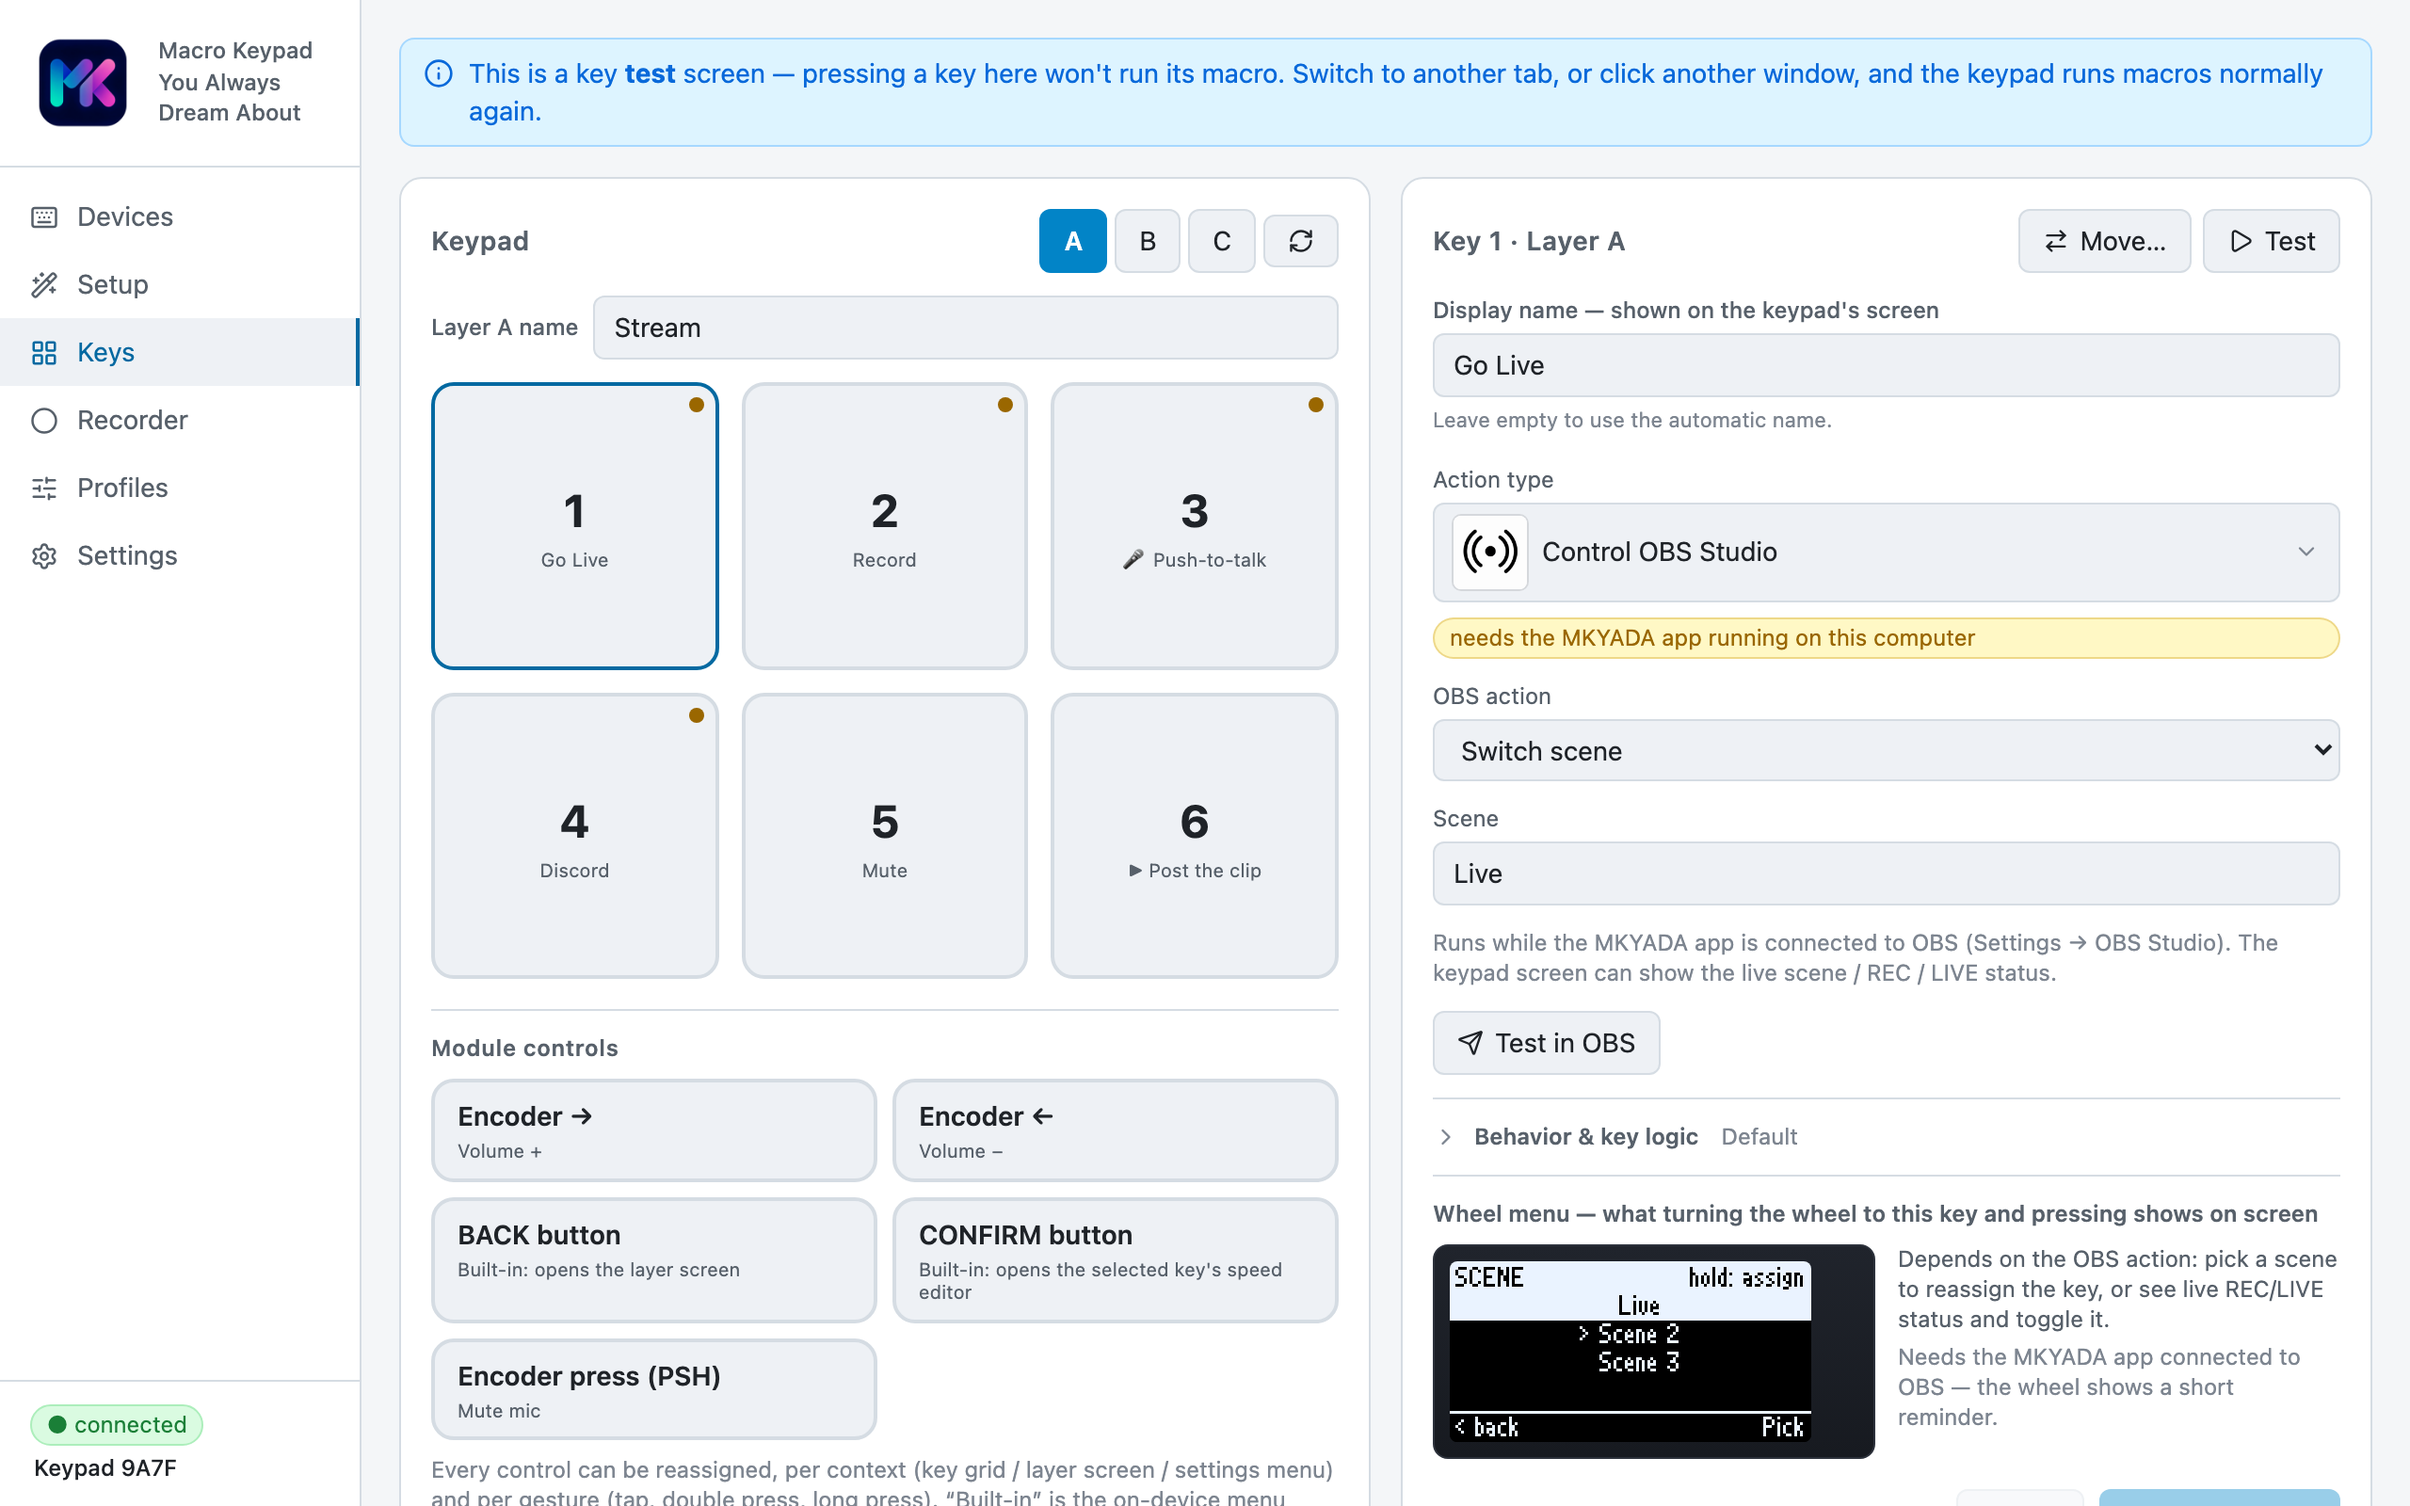
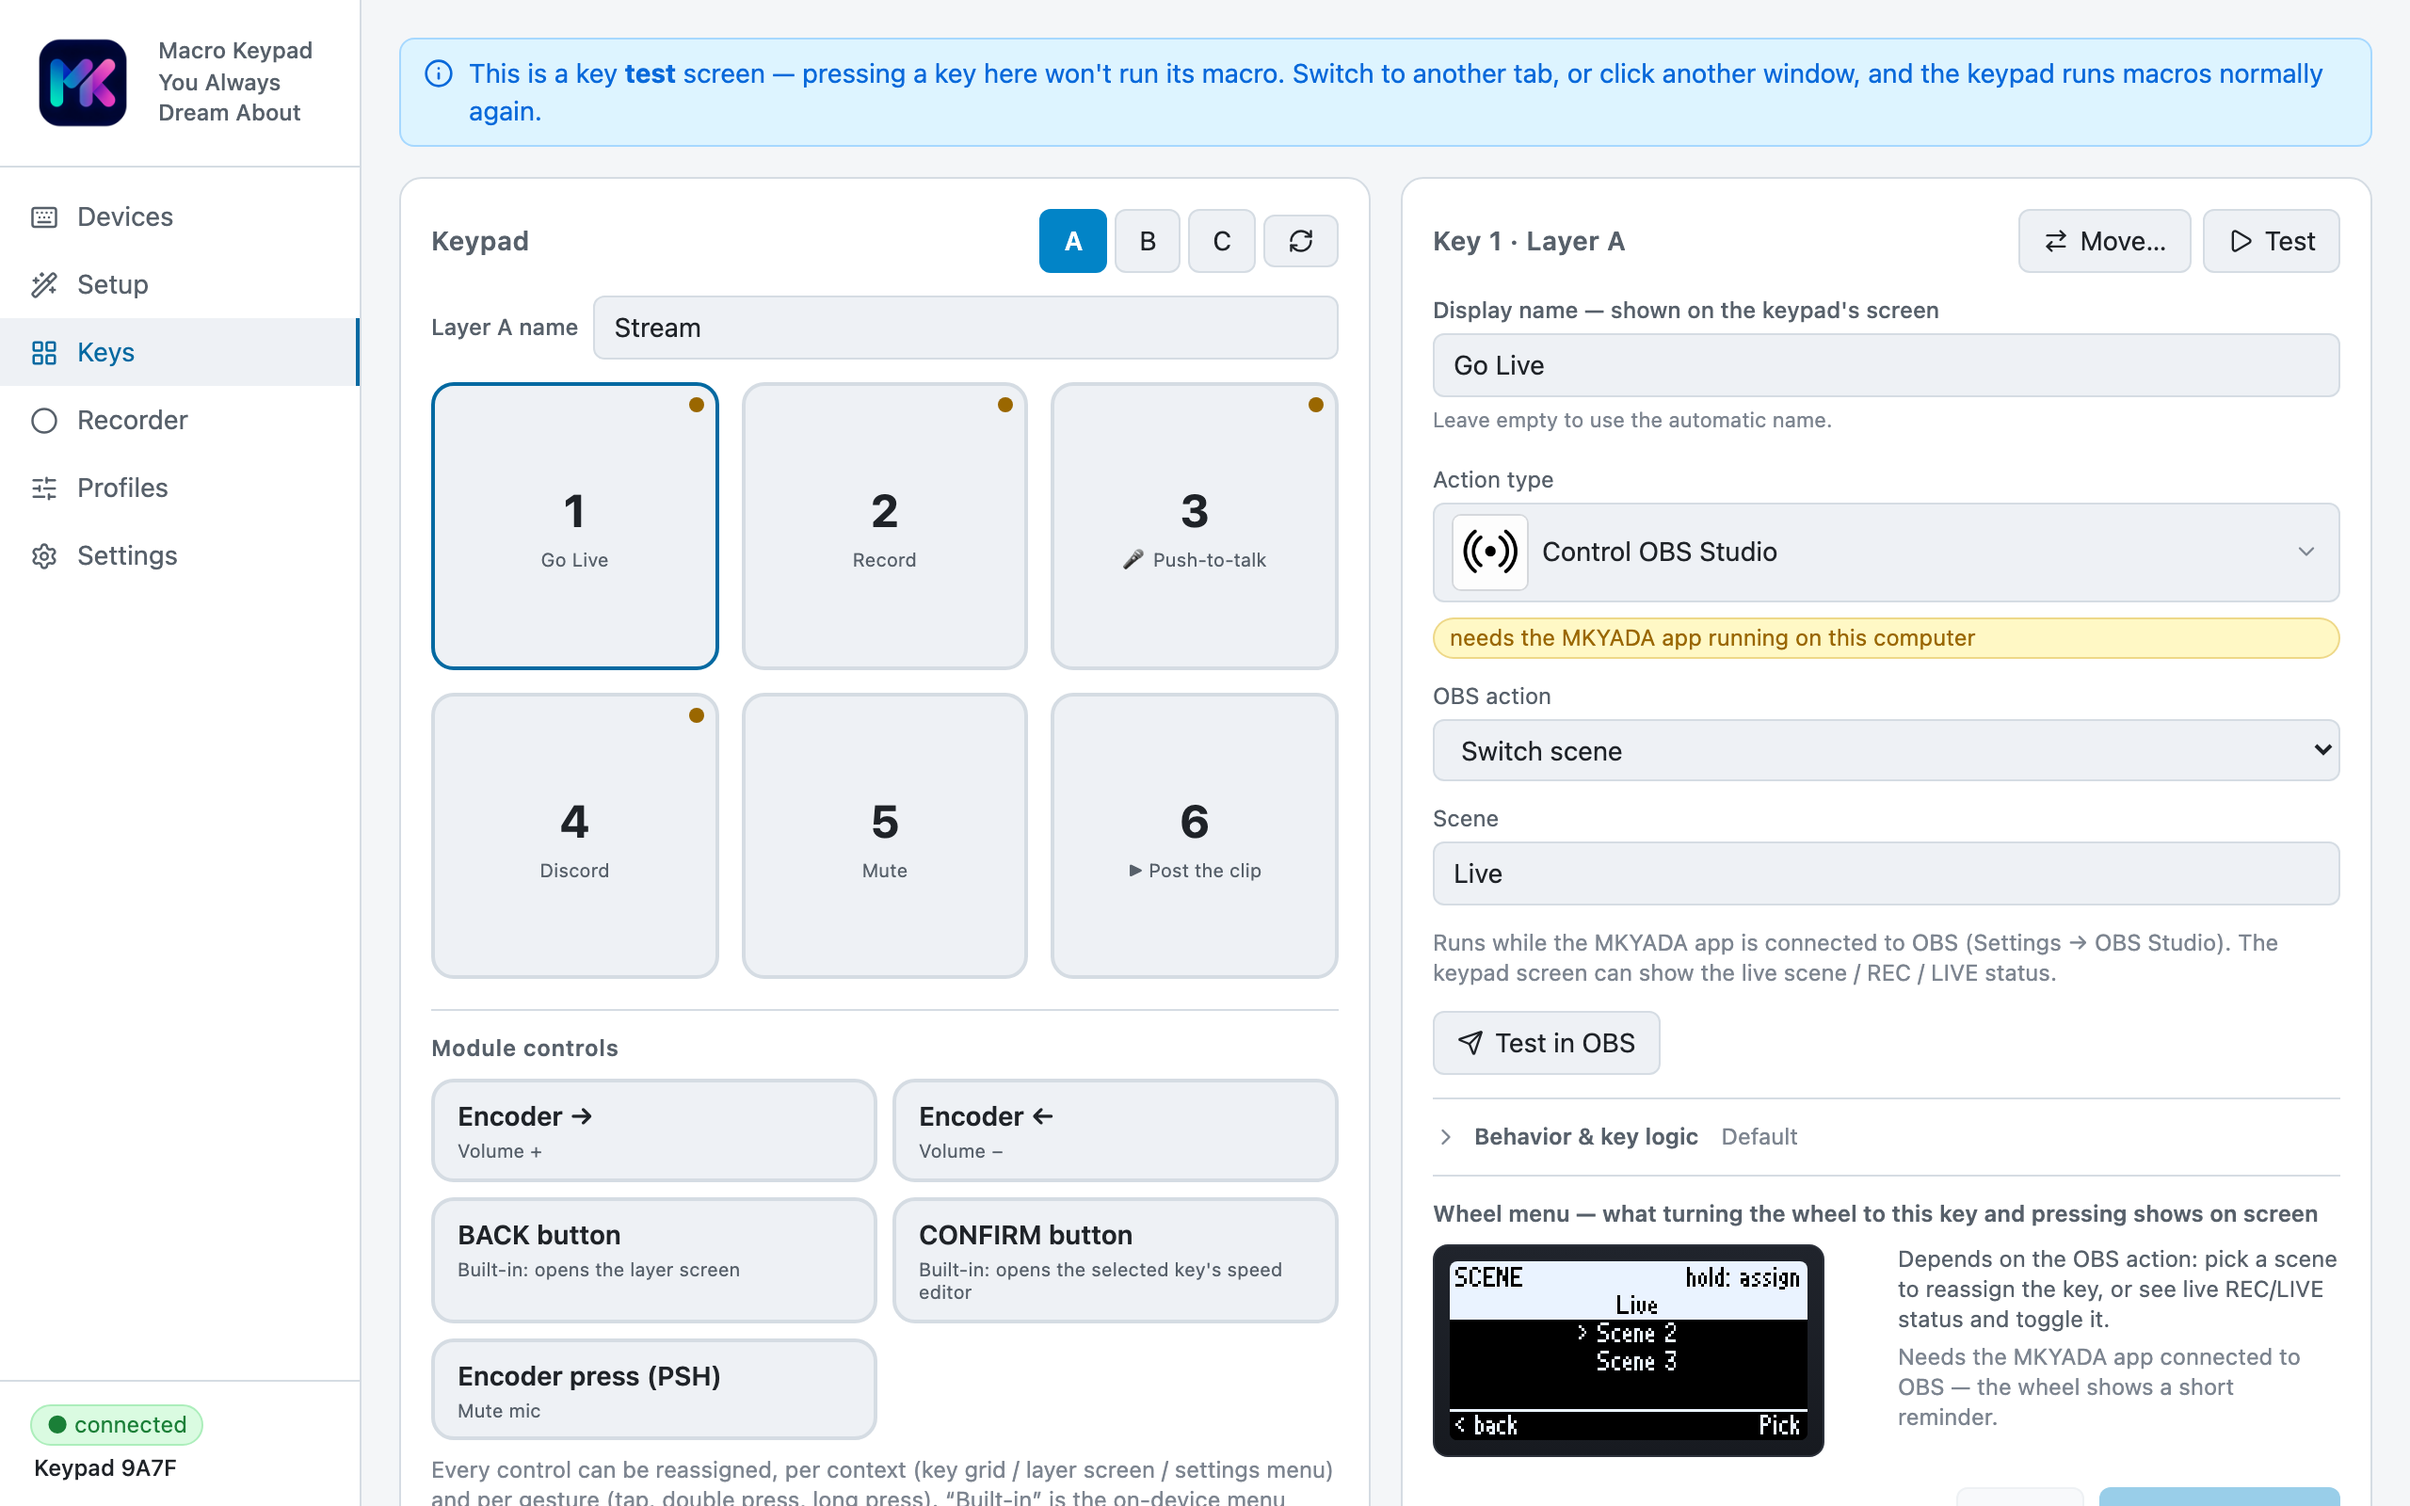
Responsive OLED preview, and a brand-new keypad that knows key 1's name (v0.31.0)
Two bugs from the wheel-menu explainer's fixed-size preview: in a narrow
window it overflowed its column onto the text, and in a wide one the bezel
stretched to the column while the picture inside stayed put. The preview now
takes the width it is given and treats `scale` as a ceiling.

And a first-run one worth its own test: the setup wizard wrote key 1's starter
macro pretty-printed — 10 KB with `{` alone on line 1. The firmware reads a
macro's name from line 1 and only parses a whole file under 4 KB, so a
brand-new keypad showed "K1" on its screen instead of the macro's name. It is
written in the stream format now, like every other save.

Changed region(s): [[0.5938, 0.8125, 0.7812, 0.9688], [0.6562, 0.875, 0.6875, 0.9062]]

diff --git a/app/src/lib/macro-model.test.ts b/app/src/lib/macro-model.test.ts
@@ -2,6 +2,7 @@
 // parseAssignment(compileAssignment(a)) with its meaning intact — that pair
 // is what moves assignments between the UI and the device drive.
 import { describe, expect, it } from "vitest";
+import { serializeForDevice } from "./recorder-model";
 import {
   assignmentComplete,
   compileAssignment,
@@ -491,5 +492,37 @@ describe("module-slot assignments (issue #19)", () => {
     expect(back.kind).toBe("nothing");
     expect(back.variants?.hold).toEqual({ kind: "menu", action: "back" });
     expect(describeSlotAssignment(back)).toBe("Do nothing · Hold: Menu back");
+  });
+});
+
+// The very first thing a new keypad ever shows. It is written by the setup
+// wizard (ProvisionWizard) with an explicit name, and it has to survive the
+// trip back: an unnamed starter would leave key 1 blank on the device's grid
+// and its Display name box empty in the editor.
+describe("first-run starter macro", () => {
+  const STARTER_NAME = "MKYADA releases";
+  const starter = compileAssignment(
+    { kind: "text", text: "https://github.com/asilbalaban/MKYADA/releases/" },
+    STARTER_NAME,
+  );
+
+  it("carries the name the wizard gave it", () => {
+    expect(starter?.name).toBe(STARTER_NAME);
+  });
+
+  // The firmware reads a macro's name from LINE 1 and only parses a whole
+  // pretty-printed file below 4 KB (ui.py META_MAX_WHOLE). This one is 10 KB,
+  // so writing it pretty-printed made a brand-new keypad label key 1 "K1".
+  it("puts its name on line 1, where the device looks for it", () => {
+    const line1 = serializeForDevice(starter!, 4).split("\n")[0];
+    expect((JSON.parse(line1) as MacroFile).name).toBe(STARTER_NAME);
+  });
+
+  it("comes back as an editable display name, not a blank field", () => {
+    const back = parseAssignment(JSON.parse(JSON.stringify(starter)) as MacroFile);
+    expect(back.kind).toBe("text");
+    expect(back.label).toBe(STARTER_NAME);
+    // and re-saving it keeps the name — no silent rename to "Type: https://…"
+    expect(compileAssignment(back)?.name).toBe(STARTER_NAME);
   });
 });

diff --git a/app/src/components/ProvisionWizard.tsx b/app/src/components/ProvisionWizard.tsx
@@ -11,9 +11,15 @@ import { BootloaderDrive, ipc } from "../lib/ipc";
 import type { DeviceModel, DriveInfo } from "../lib/types";
 import { MODEL_META } from "../lib/types";
 import { compileAssignment, defaultConfig } from "../lib/macro-model";
+import { serializeForDevice } from "../lib/recorder-model";
 import { useDevice } from "../lib/device";
 import { Button, Spinner, Stepper } from "./ui";
 import { ProductImage } from "./ProductImage";
+
+/** The wizard writes files for firmware it has just installed itself, so it
+ * can count on the bundled build: line-by-line macro streaming landed in
+ * protocol 4 and every release since speaks it. */
+const STREAM_PROTO = 4;
 
 type Source =
   | { kind: "bootloader"; mount: string }
@@ -113,10 +119,15 @@ export function ProvisionWizard({
         "MKYADA releases",
       );
       if (starter) {
+        // Serialize it the way every other save does. Pretty-printed, this
+        // macro is 10 KB with `{` alone on line 1 — the firmware reads a
+        // macro's name from line 1 and only falls back to parsing the whole
+        // file under 4 KB, so key 1 came up labelled "K1" on a brand-new
+        // keypad. The stream format puts the header (name included) on line 1.
         await ipc.driveWrite(
           drive.path,
           "macros/key1.json",
-          JSON.stringify(starter, null, 2),
+          serializeForDevice(starter, STREAM_PROTO),
         );
       }
       setPhase("");

diff --git a/app/src/components/OledPreview.tsx b/app/src/components/OledPreview.tsx
@@ -15,10 +15,18 @@ export function OledPreview({ preview, scale = 2 }: { preview: WheelPreview; sca
     if (c) drawWheelScreen(c, preview);
   }, [preview]);
 
+  // `scale` is a CEILING, not a fixed size: the bezel takes the width it is
+  // given and stops growing there. A fixed pixel width broke both ways inside
+  // a flex/grid column — it overflowed a narrow one, and in a wide one the
+  // bezel stretched to the column while the picture inside stayed put.
   return (
     <div
-      className="inline-block rounded-lg p-2"
-      style={{ background: "linear-gradient(#20242c, #171a20)", border: "1px solid #2c313b" }}
+      className="w-full rounded-lg p-2"
+      style={{
+        maxWidth: OLED_W * scale + 16, // + the 8px padding on each side
+        background: "linear-gradient(#20242c, #171a20)",
+        border: "1px solid #2c313b",
+      }}
     >
       <canvas
         ref={ref}
@@ -26,8 +34,9 @@ export function OledPreview({ preview, scale = 2 }: { preview: WheelPreview; sca
         height={OLED_H}
         style={{
           display: "block",
-          width: OLED_W * scale,
-          height: OLED_H * scale,
+          width: "100%",
+          height: "auto",
+          aspectRatio: `${OLED_W} / ${OLED_H}`,
           imageRendering: "pixelated",
           borderRadius: 4,
           background: "#000",

diff --git a/app/screenshots/fixtures.ts b/app/screenshots/fixtures.ts
@@ -40,7 +40,7 @@ export interface Fixture {
   appVersion: string;
 }
 
-const APP_VERSION = "0.30.0";
+const APP_VERSION = "0.31.0";
 
 // -------------------------------------------------------------- assignments ---
 // key number (per layer) -> what it does. Chosen to show the range of action
